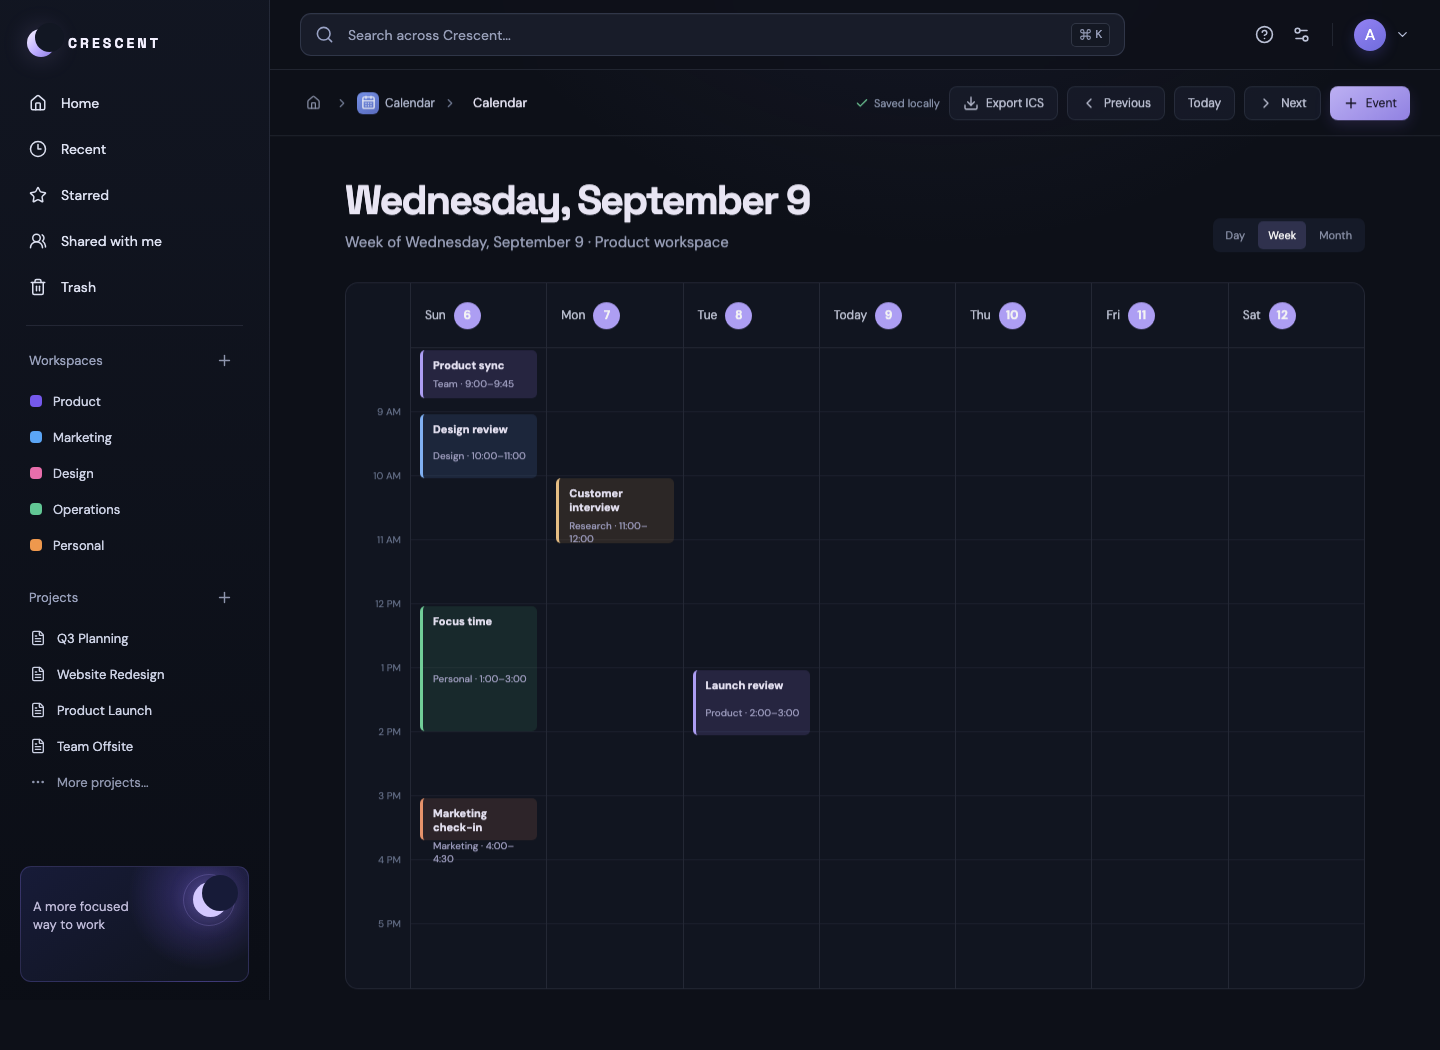
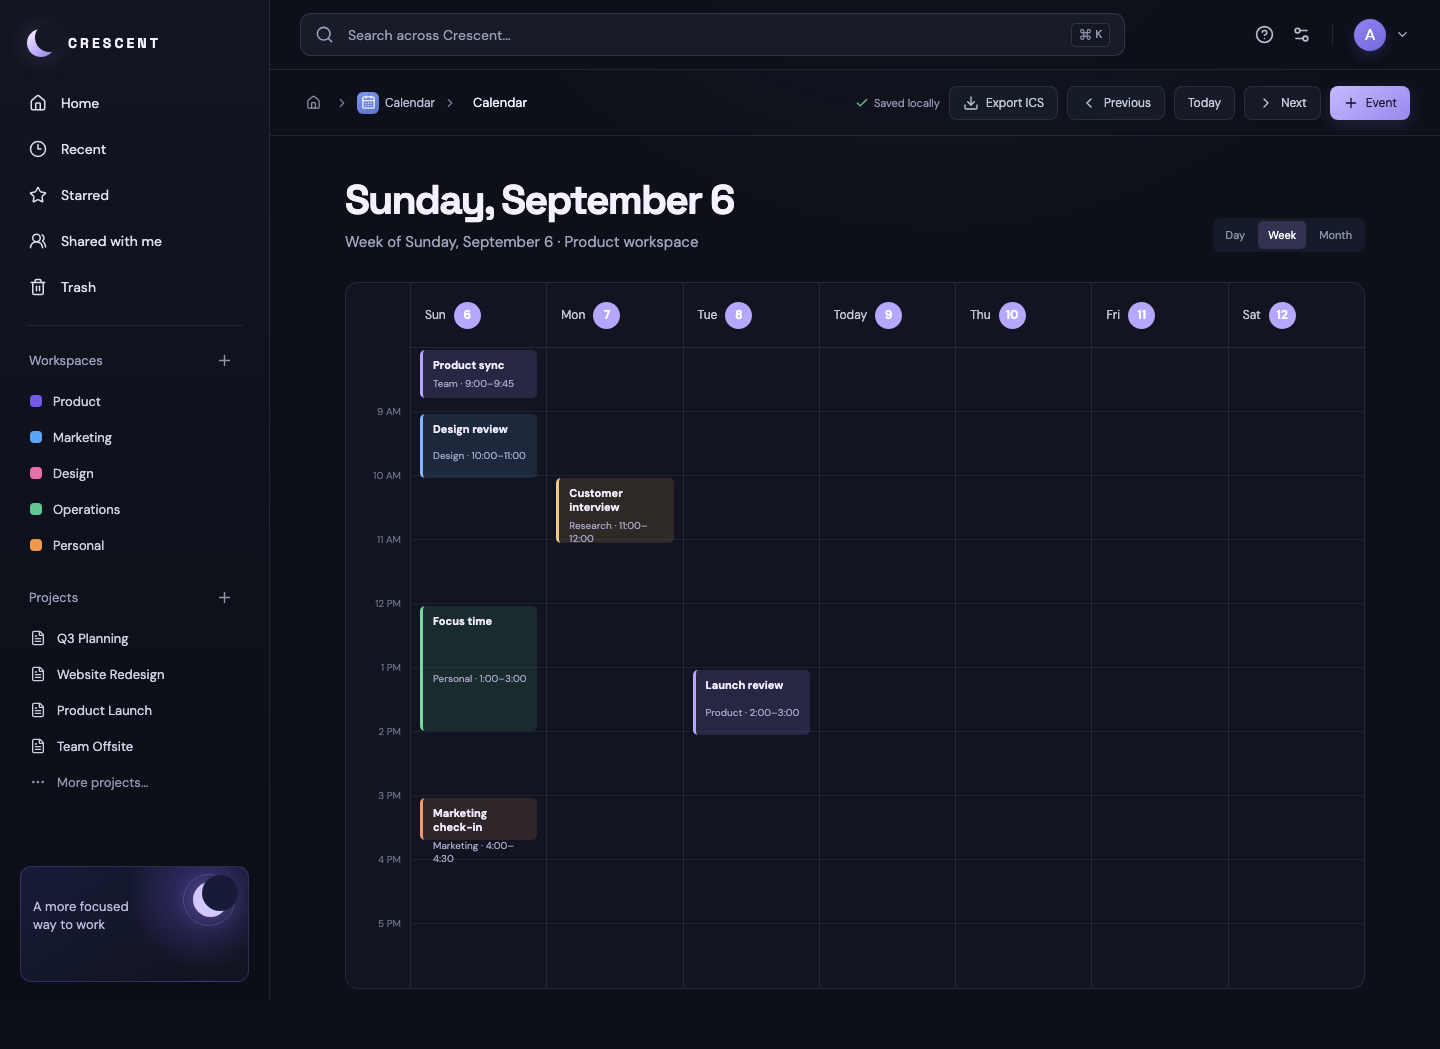
Align Calendar Week headings

diff --git a/src/App.jsx b/src/App.jsx
@@ -485,6 +485,7 @@ function CalendarView({ workspace, update, onNavigate }) {
   if (mode !== "day") weekStart.setDate(displayDate.getDate() - displayDate.getDay());
   const todayKey = now.toISOString().slice(0, 10);
   const displayHeading = new Intl.DateTimeFormat("en-US", { weekday: "long", month: "long", day: "numeric" }).format(displayDate);
+  const weekHeading = new Intl.DateTimeFormat("en-US", { weekday: "long", month: "long", day: "numeric" }).format(weekStart);
   const displayMonth = new Intl.DateTimeFormat("en-US", { month: "long", year: "numeric" }).format(displayDate);
   const shortDisplayDay = new Intl.DateTimeFormat("en-US", { weekday: "short" }).format(displayDate);
   const weekDates = Array.from({ length: 7 }, (_, dayOffset) => { const date = new Date(weekStart); date.setDate(weekStart.getDate() + dayOffset); return { date: date.getDate(), dateKey: date.toISOString().slice(0, 10), label: new Intl.DateTimeFormat("en-US", { weekday: "short" }).format(date) }; });
@@ -495,7 +496,7 @@ function CalendarView({ workspace, update, onNavigate }) {
   const monthDays = Array.from({ length: 42 }, (_, index) => { const date = new Date(monthStart); date.setDate(index - monthStart.getDay() + 1); const dateKey = date.toISOString().slice(0, 10); return { label: new Intl.DateTimeFormat("en-US", { weekday: "short" }).format(date), date: date.getDate(), dateKey, currentMonth: date.getMonth() === displayDate.getMonth(), events: [...(seededMonthEvents.get(dateKey) ?? []), ...localEventsForDate(date)] }; });
   const monthCalendar = <div className="calendar-month-grid">{monthDays.map((day) => <div className={`calendar-month-cell ${day.currentMonth ? "" : "muted"} ${day.dateKey === todayKey ? "today" : ""}`} key={day.dateKey}><div className="calendar-month-head"><span>{day.label}</span><strong>{day.date}</strong></div><div className="calendar-month-events">{day.events.map((event, index) => <span className={`calendar-month-event month-event-${index % 4}`} key={`${day.dateKey}-${event}`}>{event}</span>)}</div></div>)}</div>;
   const weekCalendar = <div className={"calendar-grid " + (mode === "day" ? "calendar-grid-day" : "")}><div className="calendar-axis"><span /><span>9 AM</span><span>10 AM</span><span>11 AM</span><span>12 PM</span><span>1 PM</span><span>2 PM</span><span>3 PM</span><span>4 PM</span><span>5 PM</span></div>{weekDates.map((day, index) => <div className={"calendar-day " + (mode === "day" && index > 0 ? "muted-day" : "")} key={day.dateKey}><div className="calendar-day-head"><span>{day.dateKey === todayKey ? "Today" : day.label}</span><strong>{day.date}</strong></div><div className="calendar-lines">{Array.from({ length: 9 }, (_, lineIndex) => <span key={lineIndex} />)}{index === 0 && <><div className="calendar-event event-one"><strong>Product sync</strong><small>Team · 9:00–9:45</small></div><div className="calendar-event event-two"><strong>Design review</strong><small>Design · 10:00–11:00</small></div><div className="calendar-event event-three"><strong>Focus time</strong><small>Personal · 1:00–3:00</small></div><div className="calendar-event event-four"><strong>Marketing check-in</strong><small>Marketing · 4:00–4:30</small></div></>}{index === 1 && <div className="calendar-event event-five"><strong>Customer interview</strong><small>Research · 11:00–12:00</small></div>}{index === 2 && <div className="calendar-event event-six"><strong>Launch review</strong><small>Product · 2:00–3:00</small></div>}</div></div>)}</div>;
-  return <div className="calendar-page page-enter"><EditorHeader title="Calendar" icon={APP_META.find((app) => app.id === "calendar")} onChangeTitle={() => {}} onNavigate={onNavigate}><button className="secondary-button" onClick={exportCalendar} disabled={!localEvents.length}><Download size={16} />Export ICS</button><button className="secondary-button" onClick={() => mode === "month" ? setMonthOffset((current) => current - 1) : setWeekOffset((current) => current - 1)}><ChevronLeft size={16} />Previous</button><button className="secondary-button" onClick={() => { setWeekOffset(0); setMonthOffset(0); }}>Today</button><button className="secondary-button" onClick={() => mode === "month" ? setMonthOffset((current) => current + 1) : setWeekOffset((current) => current + 1)}><ChevronRight size={16} />Next</button><button className="primary-button" onClick={addEvent}><Plus size={16} />Event</button></EditorHeader><div className="calendar-content"><div className="calendar-heading"><div><h1>{mode === "month" ? displayMonth : displayHeading}</h1><p>{mode === "month" ? `${displayMonth} · Product workspace` : mode === "day" ? `${shortDisplayDay} · Product workspace` : `Week of ${displayHeading} · Product workspace`}</p></div><div className="calendar-switch"><button className={mode === "day" ? "selected" : ""} onClick={() => setMode("day")} aria-pressed={mode === "day"}>Day</button><button className={mode === "week" ? "selected" : ""} onClick={() => setMode("week")} aria-pressed={mode === "week"}>Week</button><button className={mode === "month" ? "selected" : ""} onClick={() => setMode("month")} aria-pressed={mode === "month"}>Month</button></div></div>{localEvents.length > 0 && <section className="calendar-local-events" aria-label="Saved local events"><div className="calendar-local-heading"><div><span className="utility-kicker"><CalendarCheck2 size={14} />Saved locally</span><h2>Your Crescent events</h2></div><small>{localEvents.length} event{localEvents.length === 1 ? "" : "s"}</small></div><div className="calendar-local-list">{localEvents.map((event) => <div className="calendar-local-card" key={event.id}><span className="calendar-local-dot" /><div><strong>{event.title}</strong><small>{event.when}</small></div><button className="icon-button muted" onClick={() => removeEvent(event.id)} aria-label={`Remove ${event.title}`}><Trash2 size={15} /></button></div>)}</div></section>}{mode === "month" ? monthCalendar : weekCalendar}</div></div>;
+  return <div className="calendar-page page-enter"><EditorHeader title="Calendar" icon={APP_META.find((app) => app.id === "calendar")} onChangeTitle={() => {}} onNavigate={onNavigate}><button className="secondary-button" onClick={exportCalendar} disabled={!localEvents.length}><Download size={16} />Export ICS</button><button className="secondary-button" onClick={() => mode === "month" ? setMonthOffset((current) => current - 1) : setWeekOffset((current) => current - 1)}><ChevronLeft size={16} />Previous</button><button className="secondary-button" onClick={() => { setWeekOffset(0); setMonthOffset(0); }}>Today</button><button className="secondary-button" onClick={() => mode === "month" ? setMonthOffset((current) => current + 1) : setWeekOffset((current) => current + 1)}><ChevronRight size={16} />Next</button><button className="primary-button" onClick={addEvent}><Plus size={16} />Event</button></EditorHeader><div className="calendar-content"><div className="calendar-heading"><div><h1>{mode === "month" ? displayMonth : mode === "week" ? weekHeading : displayHeading}</h1><p>{mode === "month" ? `${displayMonth} · Product workspace` : mode === "day" ? `${shortDisplayDay} · Product workspace` : `Week of ${weekHeading} · Product workspace`}</p></div><div className="calendar-switch"><button className={mode === "day" ? "selected" : ""} onClick={() => setMode("day")} aria-pressed={mode === "day"}>Day</button><button className={mode === "week" ? "selected" : ""} onClick={() => setMode("week")} aria-pressed={mode === "week"}>Week</button><button className={mode === "month" ? "selected" : ""} onClick={() => setMode("month")} aria-pressed={mode === "month"}>Month</button></div></div>{localEvents.length > 0 && <section className="calendar-local-events" aria-label="Saved local events"><div className="calendar-local-heading"><div><span className="utility-kicker"><CalendarCheck2 size={14} />Saved locally</span><h2>Your Crescent events</h2></div><small>{localEvents.length} event{localEvents.length === 1 ? "" : "s"}</small></div><div className="calendar-local-list">{localEvents.map((event) => <div className="calendar-local-card" key={event.id}><span className="calendar-local-dot" /><div><strong>{event.title}</strong><small>{event.when}</small></div><button className="icon-button muted" onClick={() => removeEvent(event.id)} aria-label={`Remove ${event.title}`}><Trash2 size={15} /></button></div>)}</div></section>}{mode === "month" ? monthCalendar : weekCalendar}</div></div>;
 }
 
 function _DriveViewLegacy({ onNavigate }) {

diff --git a/README.md b/README.md
@@ -4,7 +4,7 @@ An all-in-one productivity workspace built to keep the work in one calm, consist
 
 ## Current release
 
-**v0.1.114 — Calendar Day keeps its current-date anchor**
+**v0.1.115 — Calendar Week copy matches its grid**
 
 The first release establishes the Crescent product shell and a local-first suite experience:
 
@@ -57,6 +57,8 @@ The first release establishes the Crescent product shell and a local-first suite
 - Updated CHANGELOG.md with the complete current overnight milestone summary and verification record
 - Calendar Week now renders Sunday through Saturday, while Day remains one column and Month keeps its six-week grid
 - Calendar Day remains anchored to the displayed date after the seven-day Week refactor; smoke now checks the visible one-column state
+- Calendar Week headings and subheadings now use the same Sunday-start anchor as the seven visible day columns
+- Refreshed the committed Calendar preview after the heading alignment
 - Home reflects saved local calendar events, and Forms keeps its published/response state across navigation
 - Global Search includes locally created tasks, Drive folders, and Calendar events with correct app routing
 - Tasks now filters between All, Today, Open, and Done from the shared editor header

diff --git a/CHANGELOG.md b/CHANGELOG.md
@@ -1,5 +1,19 @@
 # Changelog
 
+## v0.1.115 — Calendar Week copy matches its grid
+
+Published September 9, 2026.
+
+### Changed
+
+- Week headings now use the Sunday-start date shown by the seven-day timeline.
+- Refreshed `docs/preview/calendar.png` after the heading alignment.
+
+### Verification
+
+- Browser check confirms the Week heading, Week of subheading, and seven visible columns share the same anchor.
+- `npm run lint`, `npm run build`, and `npm run test:smoke` pass.
+
 ## v0.1.114 — Calendar Day keeps its current-date anchor
 
 Published September 9, 2026.

diff --git a/docs/preview/README.md b/docs/preview/README.md
@@ -1,4 +1,4 @@
-# v0.1.114 visual preview
+# v0.1.115 visual preview
 
 These screenshots are committed with Crescent milestones so the product can be reviewed directly from GitHub. The live preview is deployed from `main` through GitHub Pages when Pages is enabled for the repository.
 
